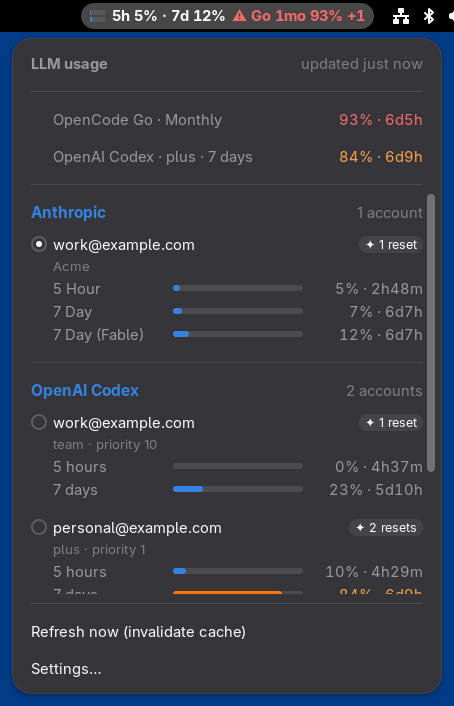
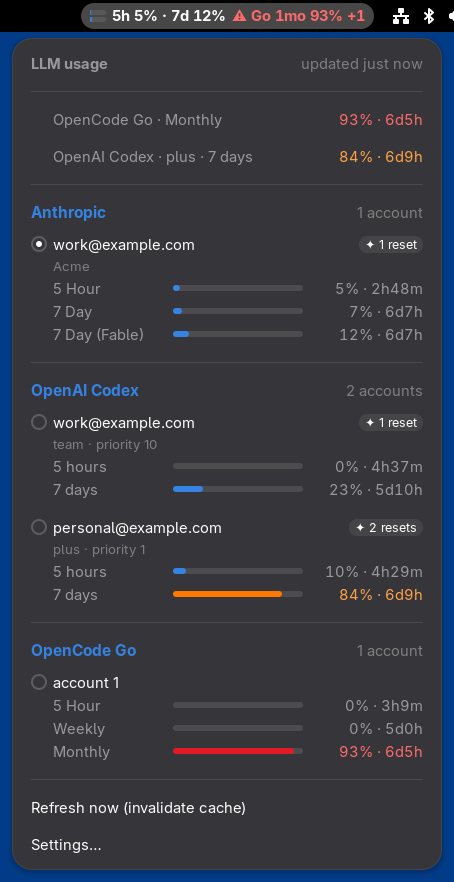
test: README の画像をデモアカウントでスクロールなしに撮る make screenshot を追加する
gnome-shell-test-tool の仮想モニターは 1280x720 固定で、アカウント一覧がスクロールして
画像が途中で切れていた。--wrap で高さを差し替え、一覧が収まらなければ失敗させる。

diff --git a/tests/shell/screenshot.js b/tests/shell/screenshot.js
@@ -179,6 +179,12 @@ async function runScenario() {
             settings.set_string('panel-display', 'bars-and-text');
         }
         await captureMenu(indicator, shotPath);
+        if (env('OMP_USAGE_TEST_EXPECT_FULL_MENU')) {
+            const scroll = indicator.menu.box.get_children().find(a => a.has_style_class_name?.('oh-my-usage-scroll'));
+            const adj = scroll?.vadjustment;
+            check(adj && adj.upper <= adj.page_size,
+                `account list fits without scrolling (content ${adj?.upper}px, view ${adj?.page_size}px)`);
+        }
         const expectAlertRows = env('OMP_USAGE_TEST_EXPECT_ALERT_ROWS');
         if (expectAlertRows) {
             const titles = labelsIn(indicator.menu.box, 'oh-my-usage-alert-title');
